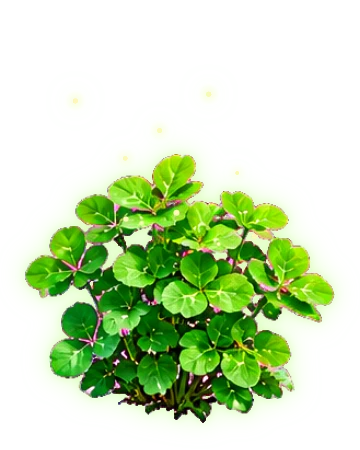
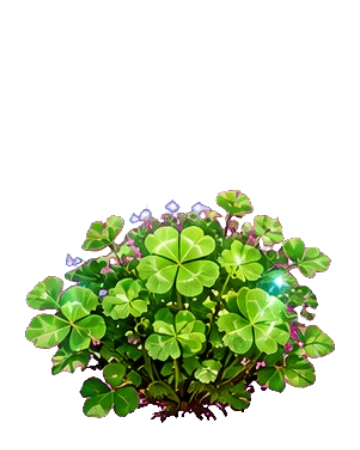
2枚目の草の画像を取り込む: 芽・葉の数が分かるクローバー・本物のススキ・金色の草・幻想の草
2枚目のシート (20本) を取り込み、仮の絵だった草の大半を本物に差し替えた。35種すべてに絵がある。
- 新しく絵が付いた: タンポポの芽・ススキの芽 (これまでプログラムで描いていた)
- 差し替え: 三つ葉・四つ葉・五つ葉・ススキ・大きなススキ・黄金芝生・黄金のススキ・水辺の草・
  クローバー芝生・幸運のクローバー・巨大タンポポ・黄金の草原・ホタル草・星の草・月光草・虹の草・宇宙草
- まだ仮: 光る草・綿毛の大群生・幸運の光草

直したこと: ススキの白い穂や金色の穂が、背景のマゼンタで桃色にかぶっていた
(ふちだけのかぶり取りでは、穂の中まで届かない)。絵全体のかぶり取り (clean) を足し、
かぶりが問題になる草だけに使う (紫の花の草に使うと花の色まで抜けるため)。
大きい草が画面の端にかかるので、牧場での大きさの上限を 1.1 にした。
npm test 33件合格、npm run test:ui 54件合格。

Claude-Session: https://claude.ai/code/session_01GTnyi6j6ChVEuThwNhLdn6

diff --git a/cut-plants.js b/cut-plants.js
@@ -29,12 +29,14 @@ const BASE = 0.94;   // 根元の高さ (箱の上から)
 
 /** 届いたシート。cols x rows のマスに1本ずつ並んでいる */
 const SHEETS = {
-  s1: { file: 'img/source/plants-sheet-01.png', cols: 5, rows: 4 }
+  s1: { file: 'img/source/plants-sheet-01.png', cols: 5, rows: 4 },
+  s2: { file: 'img/source/plants-sheet-02.png', cols: 5, rows: 4 }
 };
 
 /**
  * 草ごとの絵の作り方。cell は [シート, 段 (1〜), 列 (1〜)]。
  *   filter: canvas の filter (色を変える)   glow: まわりににじませる光の色
+ *   clean:  背景の色かぶりを除く強さ (0〜1。白い穂が桃色にかぶった草に)
  *   dots:   光の粒 { n, color }            add: 重ねる別の絵 (組み合わせ) [cell, 横のずれ, 大きさ]
  * 仮のものには note を書く (届いたら差し替える)
  */
@@ -42,28 +44,30 @@ const RECIPES = {
   chibi_shiba: { cell: ['s1', 4, 2] },
   fusafusa_shiba: { cell: ['s1', 1, 1] },
   konmori_shiba: { cell: ['s1', 1, 2] },
-  ougon_shiba: { cell: ['s1', 1, 3], filter: 'sepia(0.85) saturate(2.2) hue-rotate(-12deg) brightness(1.08)', glow: 'rgba(255,205,90,0.6)', note: '仮: 色を変えて作った' },
-  mitsuba: { cell: ['s1', 1, 4] },
-  yotsuba: { cell: ['s1', 1, 5] },
-  itsuba: { cell: ['s1', 2, 1] },
-  kouun_clover: { cell: ['s1', 1, 5], filter: 'saturate(1.25) brightness(1.1)', glow: 'rgba(200,255,150,0.55)', dots: { n: 9, color: '#fff6c0' }, note: '仮: 光らせて作った' },
+  ougon_shiba: { clean: 0.9, filter: 'hue-rotate(12deg) saturate(0.95)', cell: ['s2', 2, 3], glow: 'rgba(255,205,90,0.35)' },
+  mitsuba: { cell: ['s2', 1, 3] },
+  yotsuba: { cell: ['s2', 1, 4] },
+  itsuba: { cell: ['s2', 1, 5] },
+  kouun_clover: { cell: ['s2', 3, 2] },
   tanpopo: { cell: ['s1', 2, 2] },
   watage: { cell: ['s1', 2, 3] },
-  kyodai_tanpopo: { cell: ['s1', 2, 2], add: [[['s1', 2, 3], -0.2, 0.85], [['s1', 2, 2], 0.22, 0.8]], note: '仮: 組み合わせて作った' },
-  susuki: { cell: ['s1', 2, 4] },
-  ooki_susuki: { cell: ['s1', 2, 5] },
-  ougon_susuki: { cell: ['s1', 2, 4], filter: 'sepia(0.85) saturate(2.4) hue-rotate(-14deg) brightness(1.1)', glow: 'rgba(255,200,80,0.5)', note: '仮: 色を変えて作った' },
+  kyodai_tanpopo: { cell: ['s2', 3, 4] },
+  susuki: { clean: 0.9, cell: ['s2', 2, 1] },
+  ooki_susuki: { clean: 0.9, cell: ['s2', 2, 2] },
+  ougon_susuki: { clean: 0.9, filter: 'hue-rotate(12deg) saturate(0.95)', cell: ['s2', 2, 4], glow: 'rgba(255,200,80,0.35)' },
   hikaru_kusa: { cell: ['s1', 4, 5], filter: 'hue-rotate(-75deg) saturate(0.9) brightness(1.05)', glow: 'rgba(150,255,170,0.55)', note: '仮: 色を変えて作った' },
-  hoshi_kusa: { cell: ['s1', 4, 5], filter: 'saturate(0.55) brightness(1.15)', glow: 'rgba(190,210,255,0.6)', dots: { n: 14, color: '#ffffff' }, note: '仮: 色を変えて作った' },
-  gekkou_kusa: { cell: ['s1', 4, 5], glow: 'rgba(120,200,255,0.55)' },
-  niji_kusa: { cell: ['s1', 4, 5], filter: 'hue-rotate(110deg) saturate(1.3)', glow: 'rgba(240,180,255,0.6)', dots: { n: 10, color: '#ffffff' }, note: '仮: 色を変えて作った' },
+  hoshi_kusa: { cell: ['s2', 4, 2] },
+  gekkou_kusa: { cell: ['s2', 4, 3] },
+  niji_kusa: { cell: ['s2', 4, 4] },
   zassou: { cell: ['s1', 4, 3] },
-  mizube_kusa: { cell: ['s1', 1, 1], filter: 'hue-rotate(28deg) saturate(0.85) brightness(0.95)', dots: { n: 10, color: 'rgba(210,240,255,0.95)', drop: true }, note: '仮: 色を変えて作った' },
-  clover_shiba: { cell: ['s1', 4, 2], add: [[['s1', 1, 4], 0.08, 0.72]] },
+  mizube_kusa: { clean: 0.9, cell: ['s2', 2, 5] },
+  clover_shiba: { cell: ['s2', 3, 1] },
   watage_daigunsei: { cell: ['s1', 2, 3], add: [[['s1', 2, 3], -0.2, 0.8], [['s1', 2, 3], 0.22, 0.85]] },
-  ougon_sougen: { cell: ['s1', 1, 3], filter: 'sepia(0.85) saturate(2.2) hue-rotate(-12deg) brightness(1.08)', add: [[['s1', 2, 4], 0.22, 0.9, 'sepia(0.85) saturate(2.4) hue-rotate(-14deg) brightness(1.1)']], glow: 'rgba(255,205,90,0.6)', note: '仮: 色を変えて組み合わせた' },
-  kouun_hikarigusa: { cell: ['s1', 1, 5], filter: 'saturate(1.3) brightness(1.18)', glow: 'rgba(170,255,140,0.75)', dots: { n: 14, color: '#fffbd0' }, note: '仮: 光らせて作った' },
-  hotaru_kusa: { cell: ['s1', 2, 5], filter: 'brightness(0.72) saturate(0.85)', dots: { n: 12, color: '#e4ff80' }, glow: 'rgba(200,255,120,0.35)', note: '仮: 暗くして光の粒を足した' },
+  ougon_sougen: { clean: 0.9, filter: 'hue-rotate(12deg) saturate(0.95)', cell: ['s2', 3, 5], glow: 'rgba(255,205,90,0.4)' },
+  kouun_hikarigusa: { cell: ['s2', 3, 2], filter: 'saturate(1.25) brightness(1.15)', glow: 'rgba(170,255,140,0.75)', dots: { n: 12, color: '#fffbd0' }, note: '仮: 幸運のクローバーを光らせて作った' },
+  hotaru_kusa: { cell: ['s2', 4, 1] },
+  tanpopo_me: { cell: ['s2', 1, 1] },
+  susuki_me: { clean: 0.9, cell: ['s2', 1, 2] },
   hakobe: { cell: ['s1', 4, 1] },
   hinagiku: { cell: ['s1', 3, 1] },
   sumire: { cell: ['s1', 4, 4] },
@@ -71,7 +75,7 @@ const RECIPES = {
   hotokenoza: { cell: ['s1', 3, 2] },
   oobako: { cell: ['s1', 3, 3] },
   gishigishi: { cell: ['s1', 3, 5] },
-  uchuu_kusa: { cell: ['s1', 4, 5], filter: 'hue-rotate(40deg) brightness(0.7) saturate(1.4)', glow: 'rgba(170,130,255,0.75)', dots: { n: 20, color: '#ffffff' }, note: '仮: 色を変えて星を足した' }
+  uchuu_kusa: { cell: ['s2', 4, 5] }
 };
 
 function serve() {
@@ -211,6 +215,24 @@ function buildInPage(args) {
   const load = (src) => new Promise((r) => { const im = new Image(); im.onload = () => r(im); im.src = src; });
   const rng = (seed) => { let a = seed >>> 0; return () => { a = (a + 0x6d2b79f5) >>> 0; let t = a; t = Math.imul(t ^ (t >>> 15), t | 1); t ^= t + Math.imul(t ^ (t >>> 7), t | 61); return ((t ^ (t >>> 14)) >>> 0) / 4294967296; }; };
   const PAD = 0.86; // 光をにじませる余白
+  /**
+   * 絵全体の背景の色かぶりを除く (赤と青が緑より強いぶんを k の割合で引く)。
+   * 白いはずの穂が桃色にかぶった草だけに使う。紫や桃色の花の草に使うと花の色まで抜ける
+   */
+  const clean = (im, k) => {
+    const c = document.createElement('canvas');
+    c.width = im.width; c.height = im.height;
+    const x = c.getContext('2d');
+    x.drawImage(im, 0, 0);
+    const d = x.getImageData(0, 0, c.width, c.height);
+    const p = d.data;
+    for (let i = 0; i < p.length; i += 4) {
+      const m = Math.min(p[i], p[i + 2]) - p[i + 1];
+      if (m > 0) { p[i] -= m * k; p[i + 2] -= m * k; }
+    }
+    x.putImageData(d, 0, 0);
+    return c;
+  };
   return (async () => {
     const out = {};
     const contact = [];
@@ -220,7 +242,8 @@ function buildInPage(args) {
       const x = c.getContext('2d');
       const layers = [[r.cell, 0, 1, r.filter]].concat(r.add || []);
       // いちばん大きい絵に合わせて、全体の大きさを決める
-      const ims = await Promise.all(layers.map((l) => load(cells[l[0][0] + ':' + l[0][1] + '-' + l[0][2]])));
+      let ims = await Promise.all(layers.map((l) => load(cells[l[0][0] + ':' + l[0][1] + '-' + l[0][2]])));
+      if (r.clean) ims = ims.map((im) => clean(im, r.clean));
       const base = ims[0];
       // 組み合わせは横に広がるので、全体が箱に収まるように縮める
       const fit = Math.min((OUT_W * PAD) / base.width, (OUT_H * (BASE - 0.05) * PAD) / base.height);

diff --git a/looks.js b/looks.js
@@ -125,29 +125,31 @@
    * ここに無い草は、上の LOOKS の層から描く。
    */
   const IMAGES = {
+    susuki_me: { src: './img/plants/susuki_me.webp', size: 0.55 },
+    tanpopo_me: { src: './img/plants/tanpopo_me.webp', size: 0.5 },
     chibi_shiba: { src: './img/plants/chibi_shiba.webp', size: 0.6 },
     fusafusa_shiba: { src: './img/plants/fusafusa_shiba.webp', size: 0.8 },
     konmori_shiba: { src: './img/plants/konmori_shiba.webp', size: 1 },
-    ougon_shiba: { src: './img/plants/ougon_shiba.webp', size: 1.05 },
-    mitsuba: { src: './img/plants/mitsuba.webp', size: 0.7 },
-    yotsuba: { src: './img/plants/yotsuba.webp', size: 0.85 },
-    itsuba: { src: './img/plants/itsuba.webp', size: 0.95 },
-    kouun_clover: { src: './img/plants/kouun_clover.webp', size: 1.05 },
+    ougon_shiba: { src: './img/plants/ougon_shiba.webp', size: 1.0 },
+    mitsuba: { src: './img/plants/mitsuba.webp', size: 0.6 },
+    yotsuba: { src: './img/plants/yotsuba.webp', size: 0.7 },
+    itsuba: { src: './img/plants/itsuba.webp', size: 0.85 },
+    kouun_clover: { src: './img/plants/kouun_clover.webp', size: 1.0 },
     tanpopo: { src: './img/plants/tanpopo.webp', size: 0.85 },
     watage: { src: './img/plants/watage.webp', size: 0.95 },
-    kyodai_tanpopo: { src: './img/plants/kyodai_tanpopo.webp', size: 1.15 },
+    kyodai_tanpopo: { src: './img/plants/kyodai_tanpopo.webp', size: 1.1 },
     susuki: { src: './img/plants/susuki.webp', size: 0.95 },
     ooki_susuki: { src: './img/plants/ooki_susuki.webp', size: 1.1 },
     ougon_susuki: { src: './img/plants/ougon_susuki.webp', size: 1.1 },
     hikaru_kusa: { src: './img/plants/hikaru_kusa.webp', size: 0.8 },
-    hoshi_kusa: { src: './img/plants/hoshi_kusa.webp', size: 0.9 },
+    hoshi_kusa: { src: './img/plants/hoshi_kusa.webp', size: 0.95 },
     gekkou_kusa: { src: './img/plants/gekkou_kusa.webp', size: 1.0 },
     niji_kusa: { src: './img/plants/niji_kusa.webp', size: 1.05 },
     zassou: { src: './img/plants/zassou.webp', size: 0.8 },
-    mizube_kusa: { src: './img/plants/mizube_kusa.webp', size: 0.9 },
-    clover_shiba: { src: './img/plants/clover_shiba.webp', size: 0.9 },
+    mizube_kusa: { src: './img/plants/mizube_kusa.webp', size: 0.95 },
+    clover_shiba: { src: './img/plants/clover_shiba.webp', size: 0.95 },
     watage_daigunsei: { src: './img/plants/watage_daigunsei.webp', size: 1.1 },
-    ougon_sougen: { src: './img/plants/ougon_sougen.webp', size: 1.15 },
+    ougon_sougen: { src: './img/plants/ougon_sougen.webp', size: 1.1 },
     kouun_hikarigusa: { src: './img/plants/kouun_hikarigusa.webp', size: 1.05 },
     hotaru_kusa: { src: './img/plants/hotaru_kusa.webp', size: 1.0 },
     uchuu_kusa: { src: './img/plants/uchuu_kusa.webp', size: 1.1 },

diff --git a/CLAUDE.md b/CLAUDE.md
@@ -63,11 +63,12 @@
 - **届いた画像の入れ方:** 1枚に何本も並んだシートを `img/source/` に置き、`cut-plants.js` の `SHEETS` に (ファイル・列数・段数) を足し、`RECIPES` に「どの草に、どのマスの絵を、どう使うか」を書いて `node cut-plants.js`。
   背景を色の距離で抜き (紫の花を消さない)、塊ごとにマスへ振り分け、根元を 4:5 の箱の 94% にそろえて `img/plants/<草の id>.webp` に書き出す。確かめるための切り出しと見本は `img/cells/` (git には入れない)。
   書き出したら `looks.js` の `IMAGES` に `{ src, size }` を書く (`size` は牧場での大きさ。1 = マスいっぱい)
+- **かぶり取り:** 白い穂が背景のマゼンタで桃色にかぶった草は、`RECIPES` に `clean: 0.9` を書く (絵全体で、赤と青が緑より強いぶんを引く)。紫や桃色の花の草には使わない (花の色まで抜ける)
 - **仮の絵:** 届いた絵が足りない草は、`RECIPES` で別の草の絵を色を変えたり (`filter`)、光らせたり (`glow`)、組み合わせたり (`add`) して作っている。`note` に「仮」と書いてある物は、本物が届いたら差し替える
 
 ### 仮置き・未決 (決まったらここへ書く)
 
-- 草の絵 → **決定済み: 本番の絵はユーザーが画像で用意する。** 1枚目のシート (20本) を取り込み済み。画像の無い草 (タンポポの芽・ススキの芽) だけ `plants.js` が描いている。シートの野草 7 本は、新しい系統「野の花」と野草の特殊合成 3 つに使った
+- 草の絵 → **決定済み: 本番の絵はユーザーが画像で用意する。** シート2枚 (40本) を取り込み済みで、35種すべてに絵がある。1枚目の野草 7 本は、新しい系統「野の花」と野草の特殊合成 3 つに使った。**まだ仮の絵:** 光る草 (青い草の色を変えた)・綿毛の大群生 (綿毛を3つ組み合わせた)・幸運の光草 (幸運のクローバーを光らせた)。2枚目の 3段3列 (タンポポ3輪) はまだ使っていない
 - 実装で仮に決めたこと: レシピの「芝生」=ちび芝生、「クローバー」=三つ葉、「タンポポ」=Lv.2、レア度の段ごとの割り当て
 - コインの値段 (草=レア度の基本x段、売値はその半分、土地 300/1500/8000)・第3牧場で解放する「水辺の草」・幻想の牧場の大きさ (8x8) と解放する「光る草」は仮。**釣り合いはまだ取れていない。** 測った値: 種8つ (80) を最上段まで重ねて売ると 200 になり、買って重ねるだけで増え続ける (幻想草だけは 800→600 で損)。一方、最初の 30 コインでは種が3つしか買えず、売ると損なので Lv.3 にも届かず詰む。無料で草が増える手段を決めてから値段を引き直す
 - 未実装・未決: 世界樹草・銀河草・雑草の出どころ、環境 (水辺・岩場) のマスの扱い、土地を広げる画面
